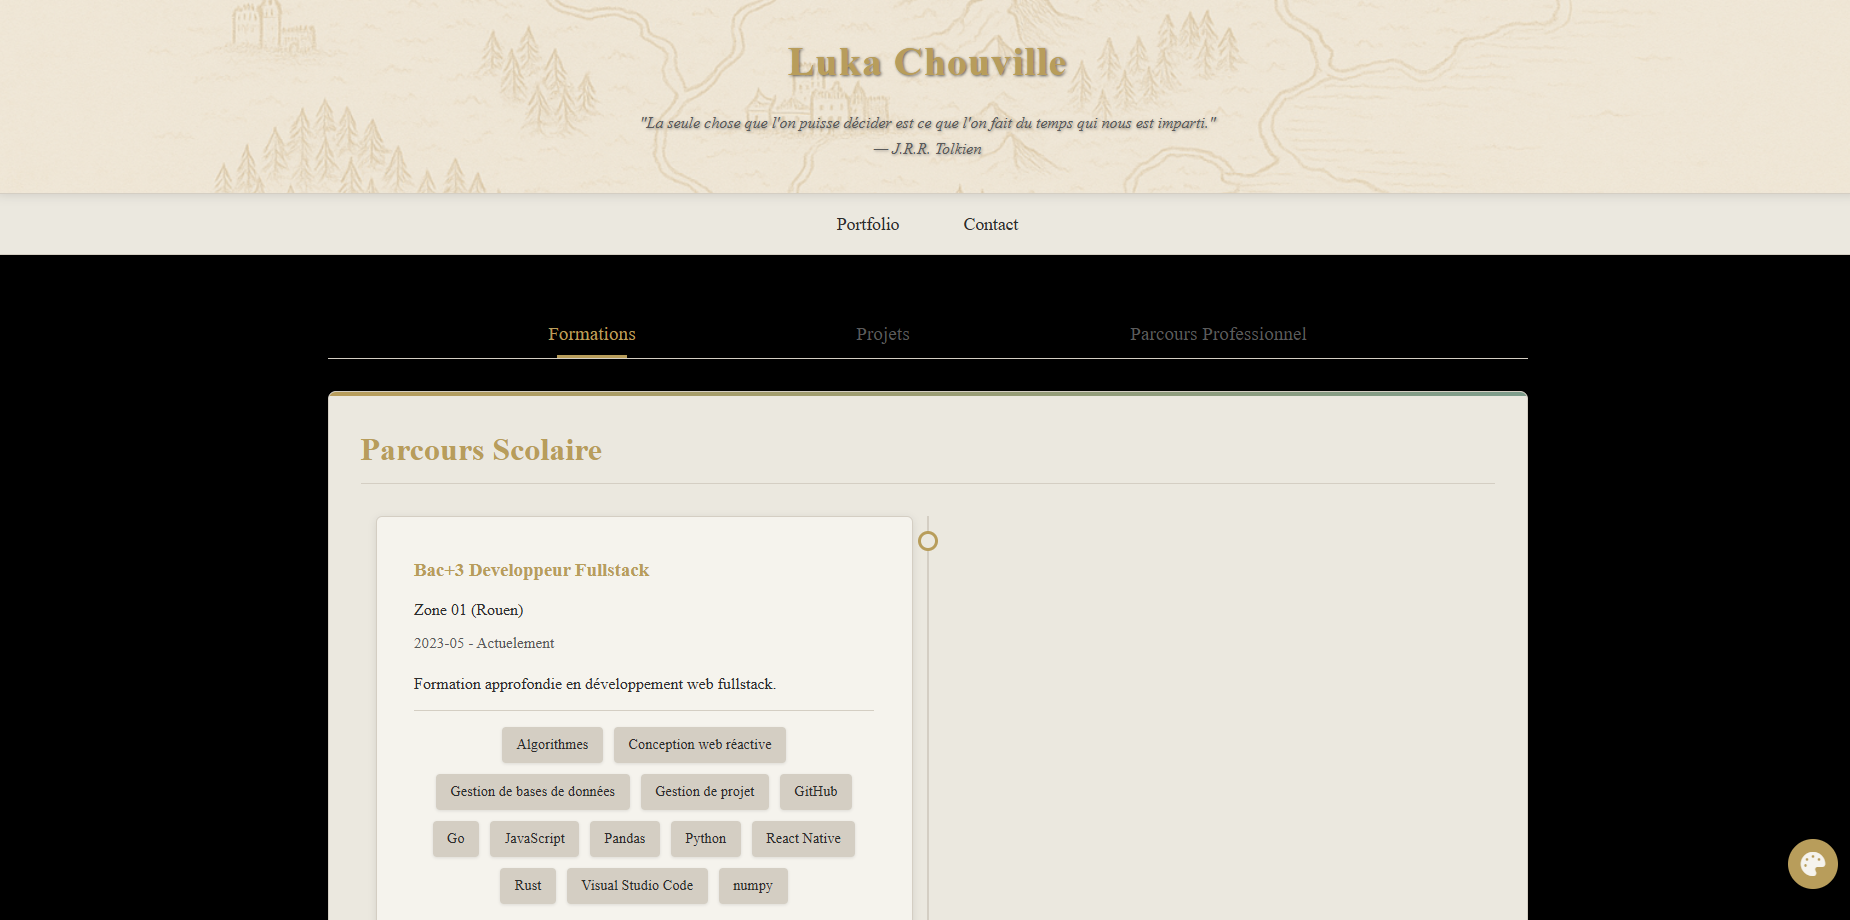
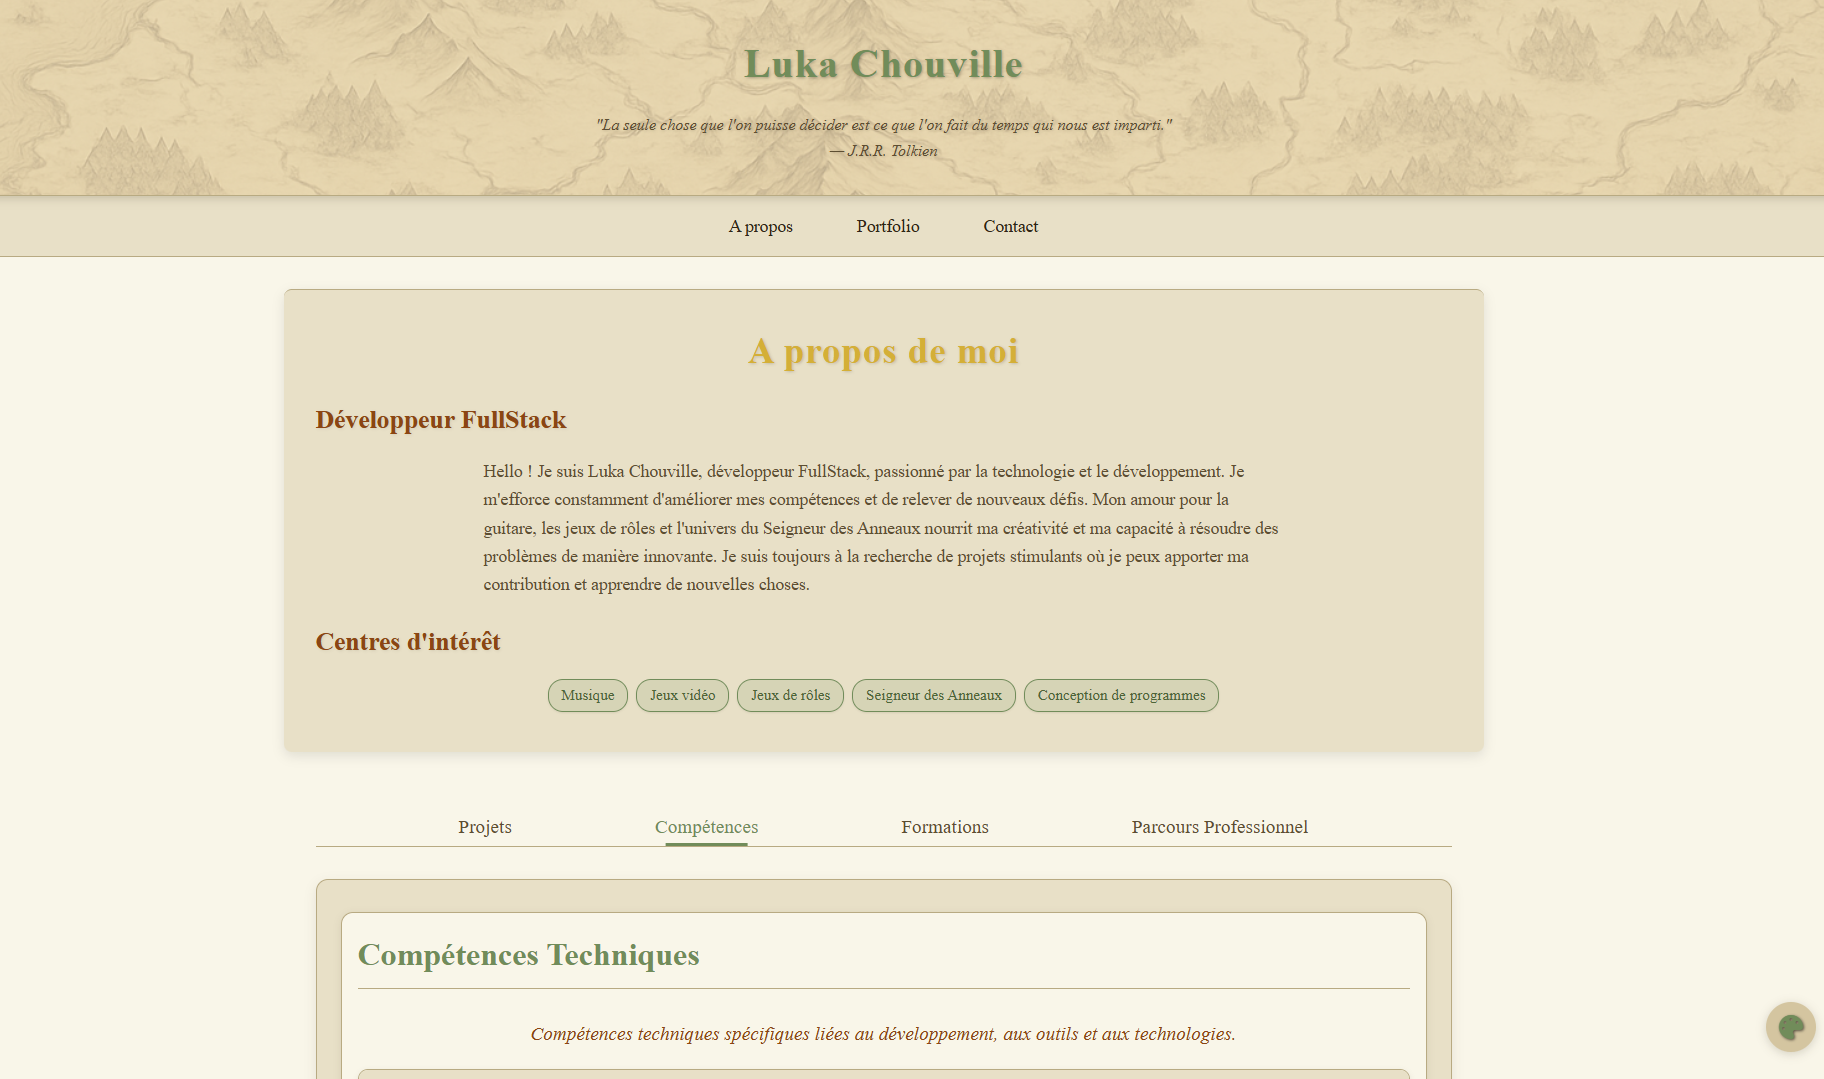
rework/project-data

diff --git a/src/css/components/tabs/project.css b/src/css/components/tabs/project.css
@@ -178,6 +178,7 @@
   justify-content: center;
   gap: 1rem;
   flex-wrap: wrap;
+  margin-bottom: 10px;
 }
 
 .project-links a {
